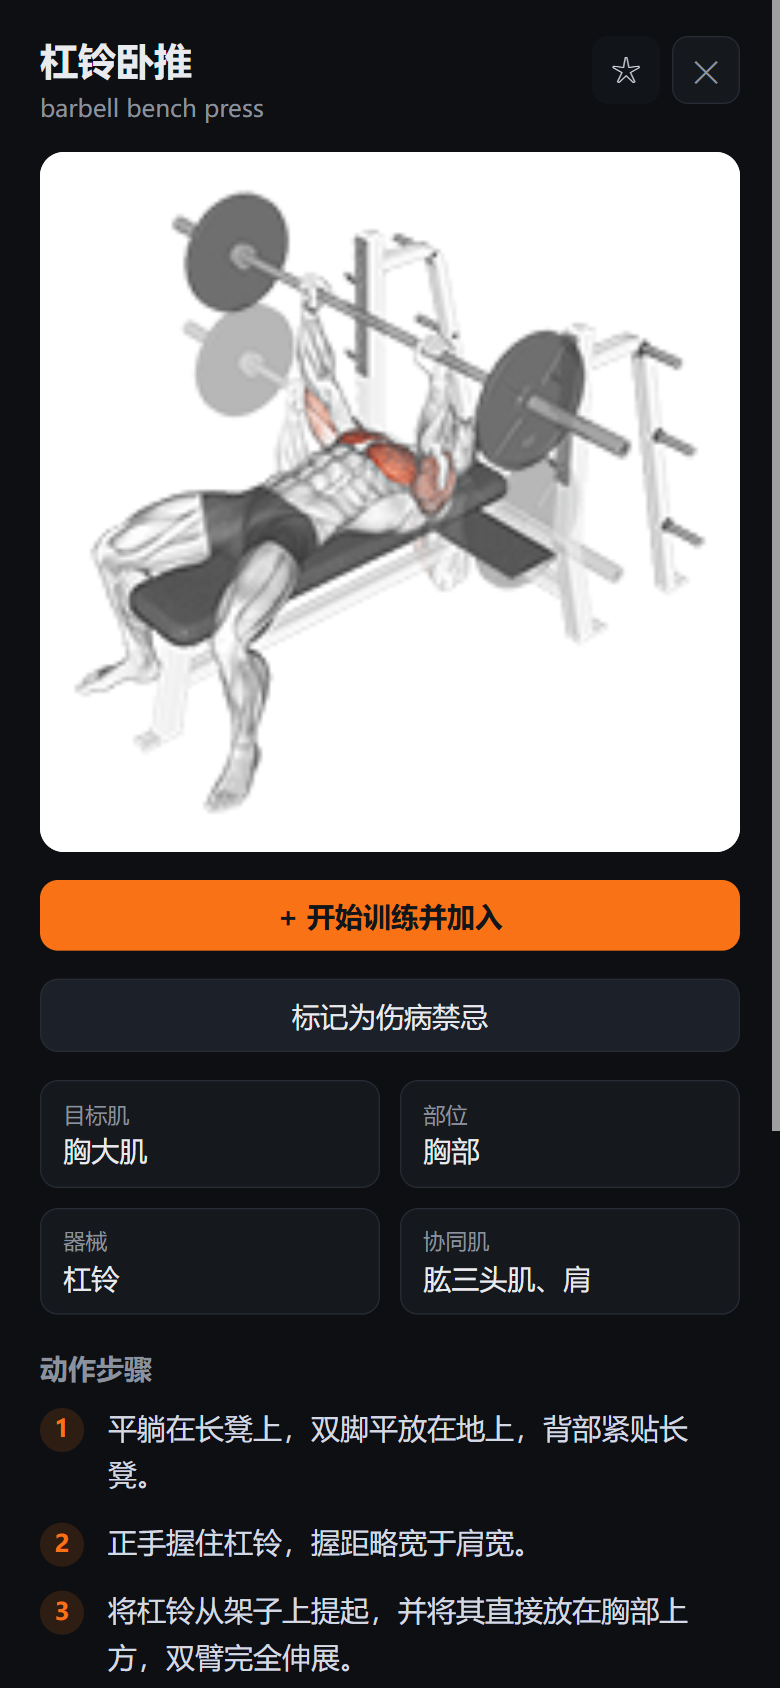
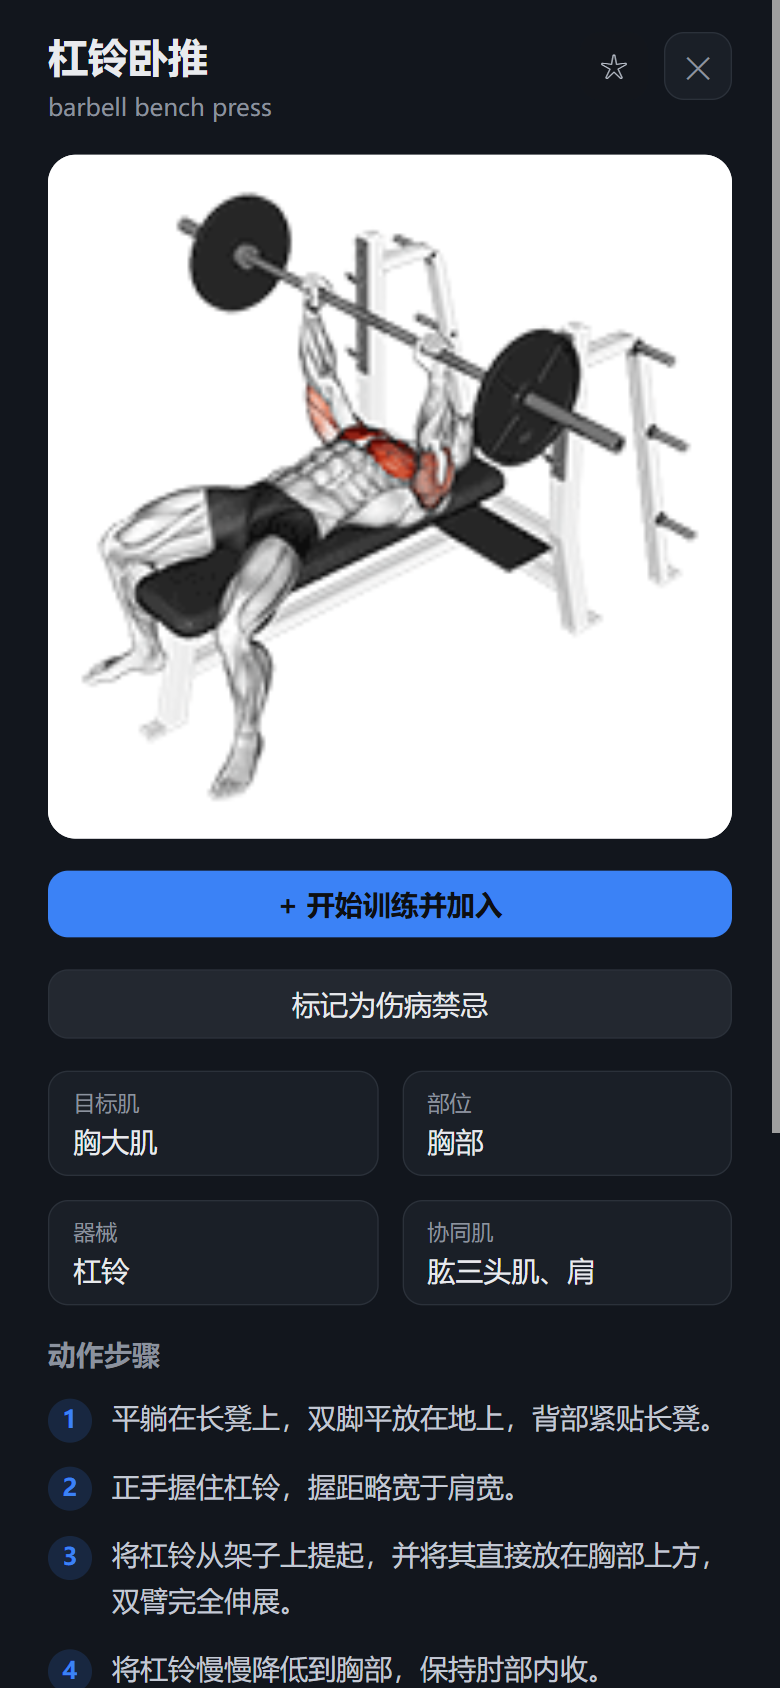
更新 README 的三张截图
三张都是改配色之前的（橙色主色、平底色、没有背景插画），和现在的界面对不上。
按 390×844 @2x 重拍（780×1688，和原图同规格），取景保持一致：

- 搜索动作：搜「卧推」→ 32 个结果
- 动作详情：杠铃卧推，演示图 + 属性网格 + 中文分步说明
- 训练中：热身清单 + 已打勾的两组 60×8 + 休息计时器

第三张比原来多了一块热身 —— 它刚被挪到训练中界面，正好让截图把这件事说清楚，
alt 文本也跟着补上了。

顺带记一下拍摄条件，免得下次又要摸一遍：预览窗的 `preview_screenshot` 不支持
写文件（`filePath` 传了也不落盘），得用 chrome-devtools 那套；
而且要在它那边重新 `emulate` 一次 390x844x2,mobile 才能出 2x 图。

diff --git a/README.md b/README.md
@@ -10,7 +10,7 @@
 <p align="center">
   <img src="docs/screenshots/library.png" width="250" alt="搜索动作：中文名、英文原名、目标肌与器械">
   <img src="docs/screenshots/detail.png" width="250" alt="动作详情：动画演示、属性与中文分步说明">
-  <img src="docs/screenshots/workout.png" width="250" alt="训练记录：组数重量、打勾与组间休息计时">
+  <img src="docs/screenshots/workout.png" width="250" alt="训练记录：热身清单、组数重量、打勾与组间休息计时">
 </p>
 
 解决的实际问题：
